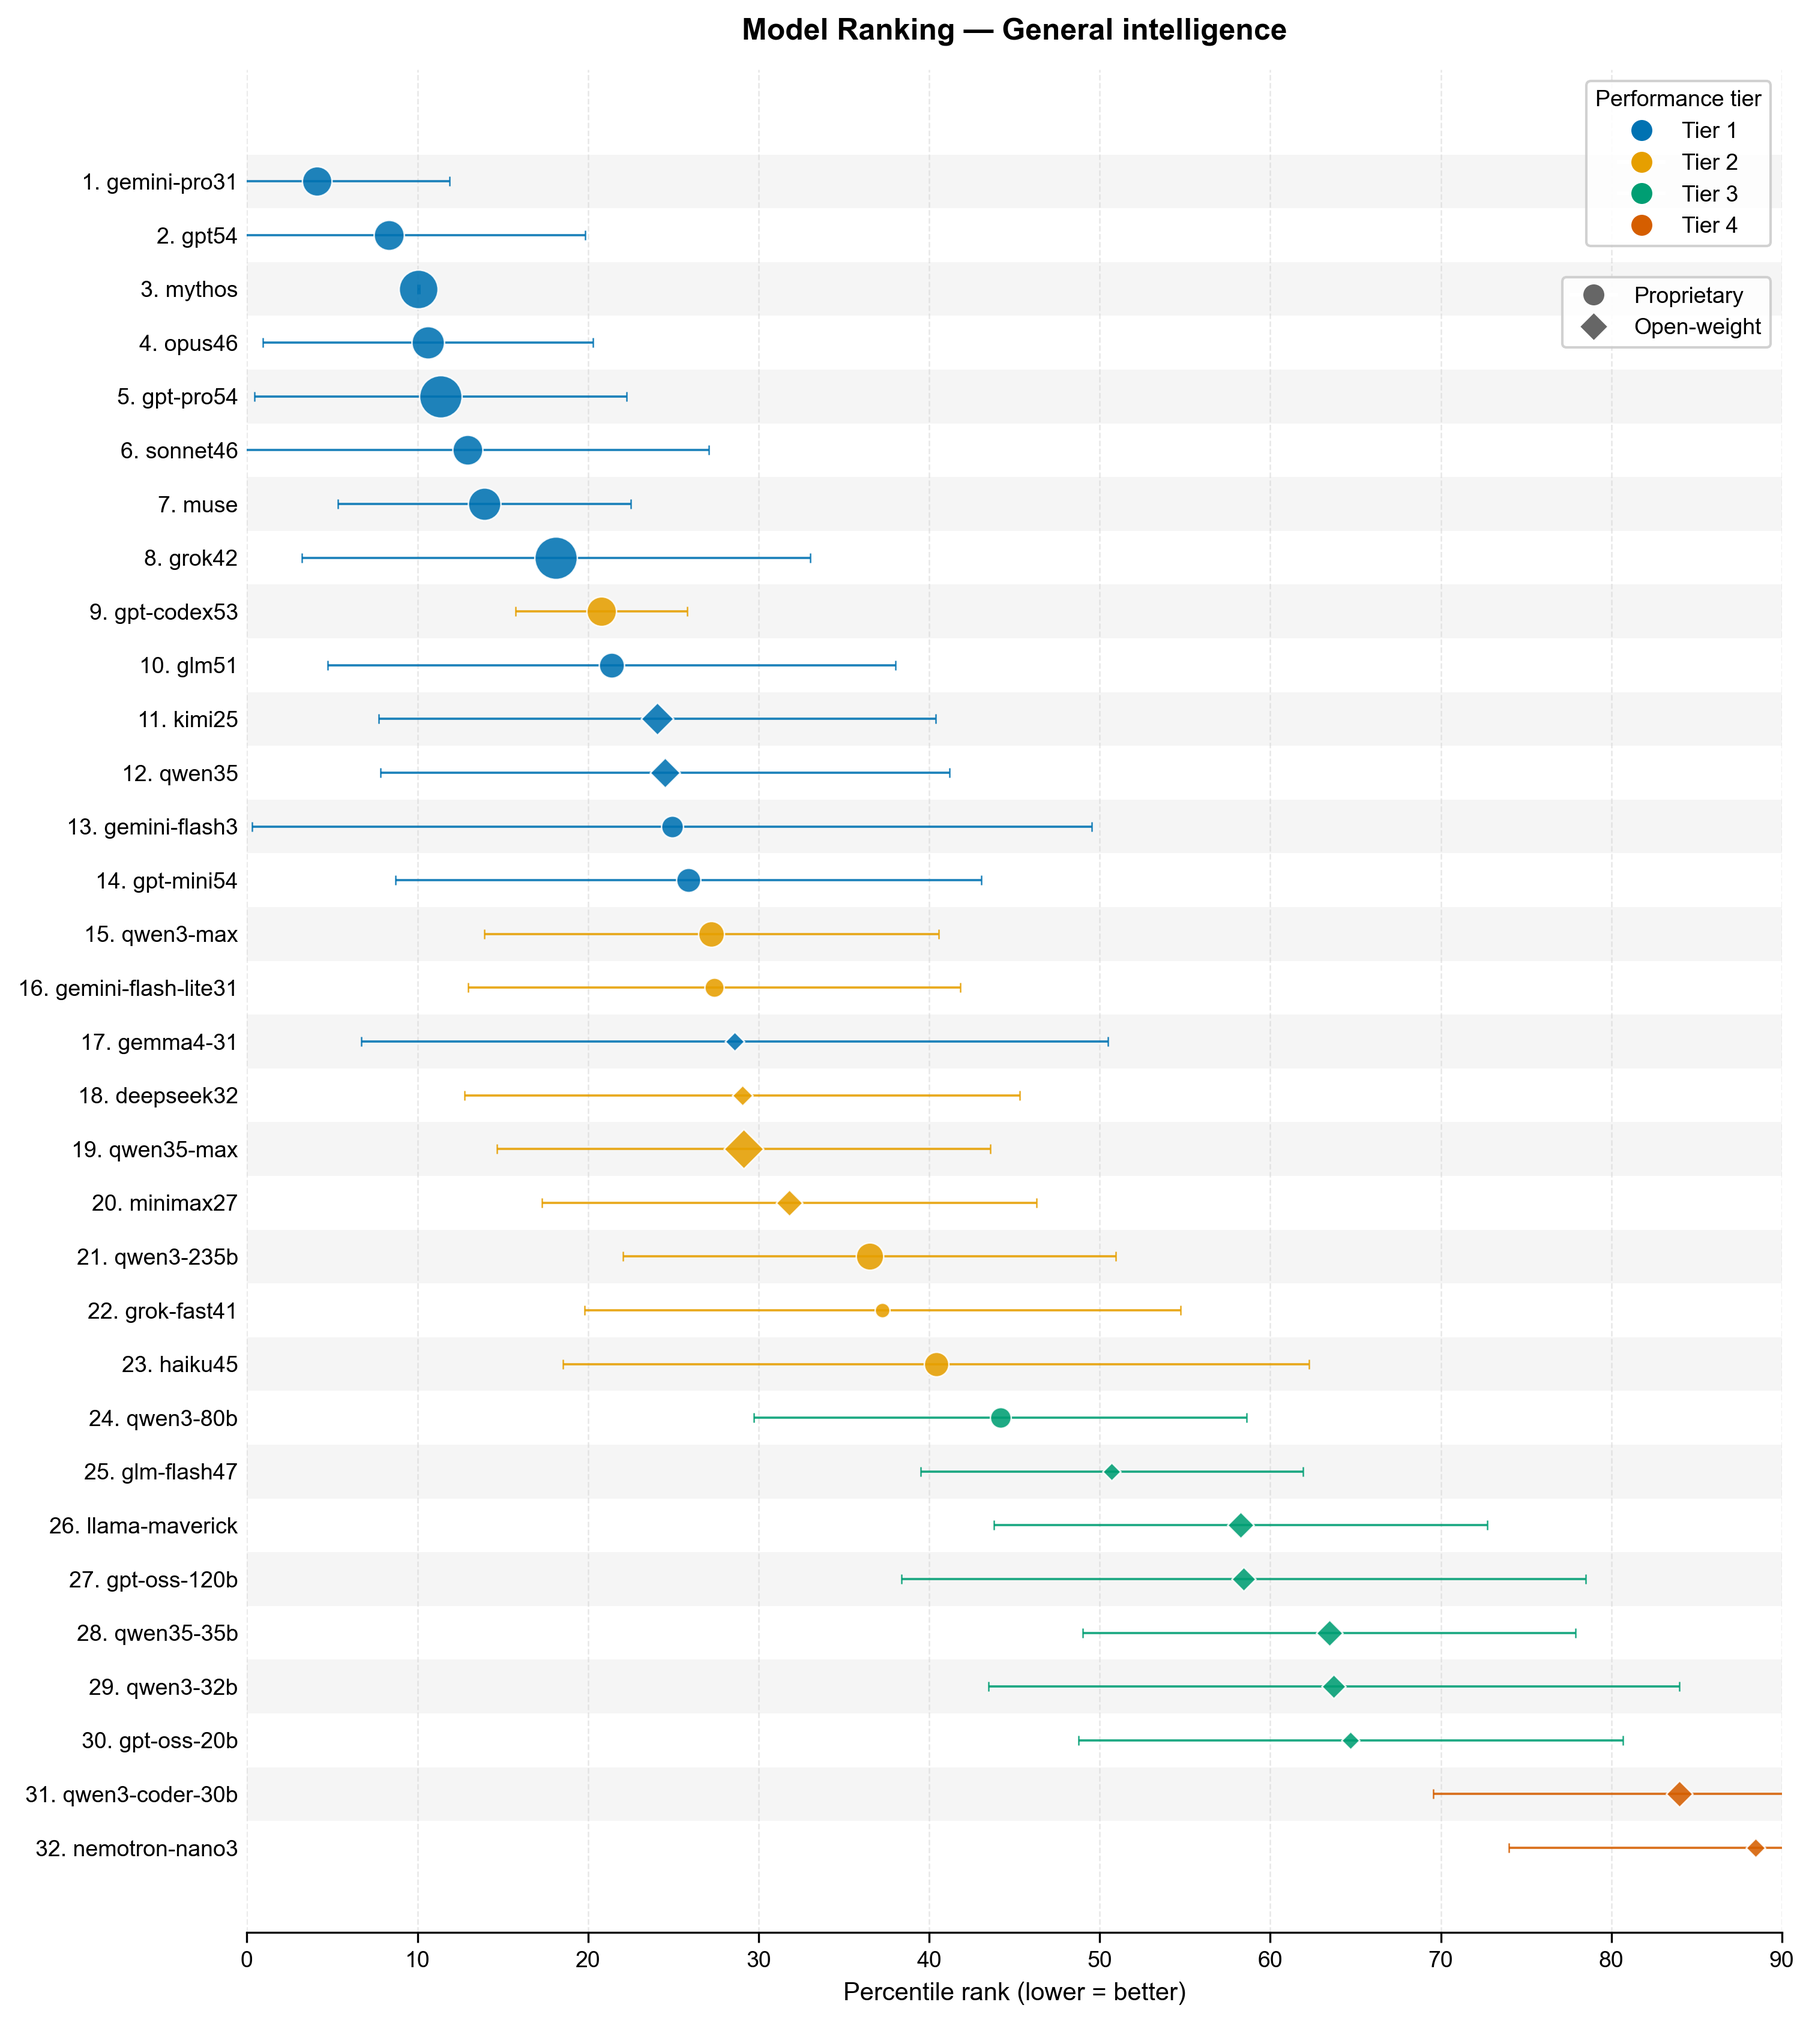
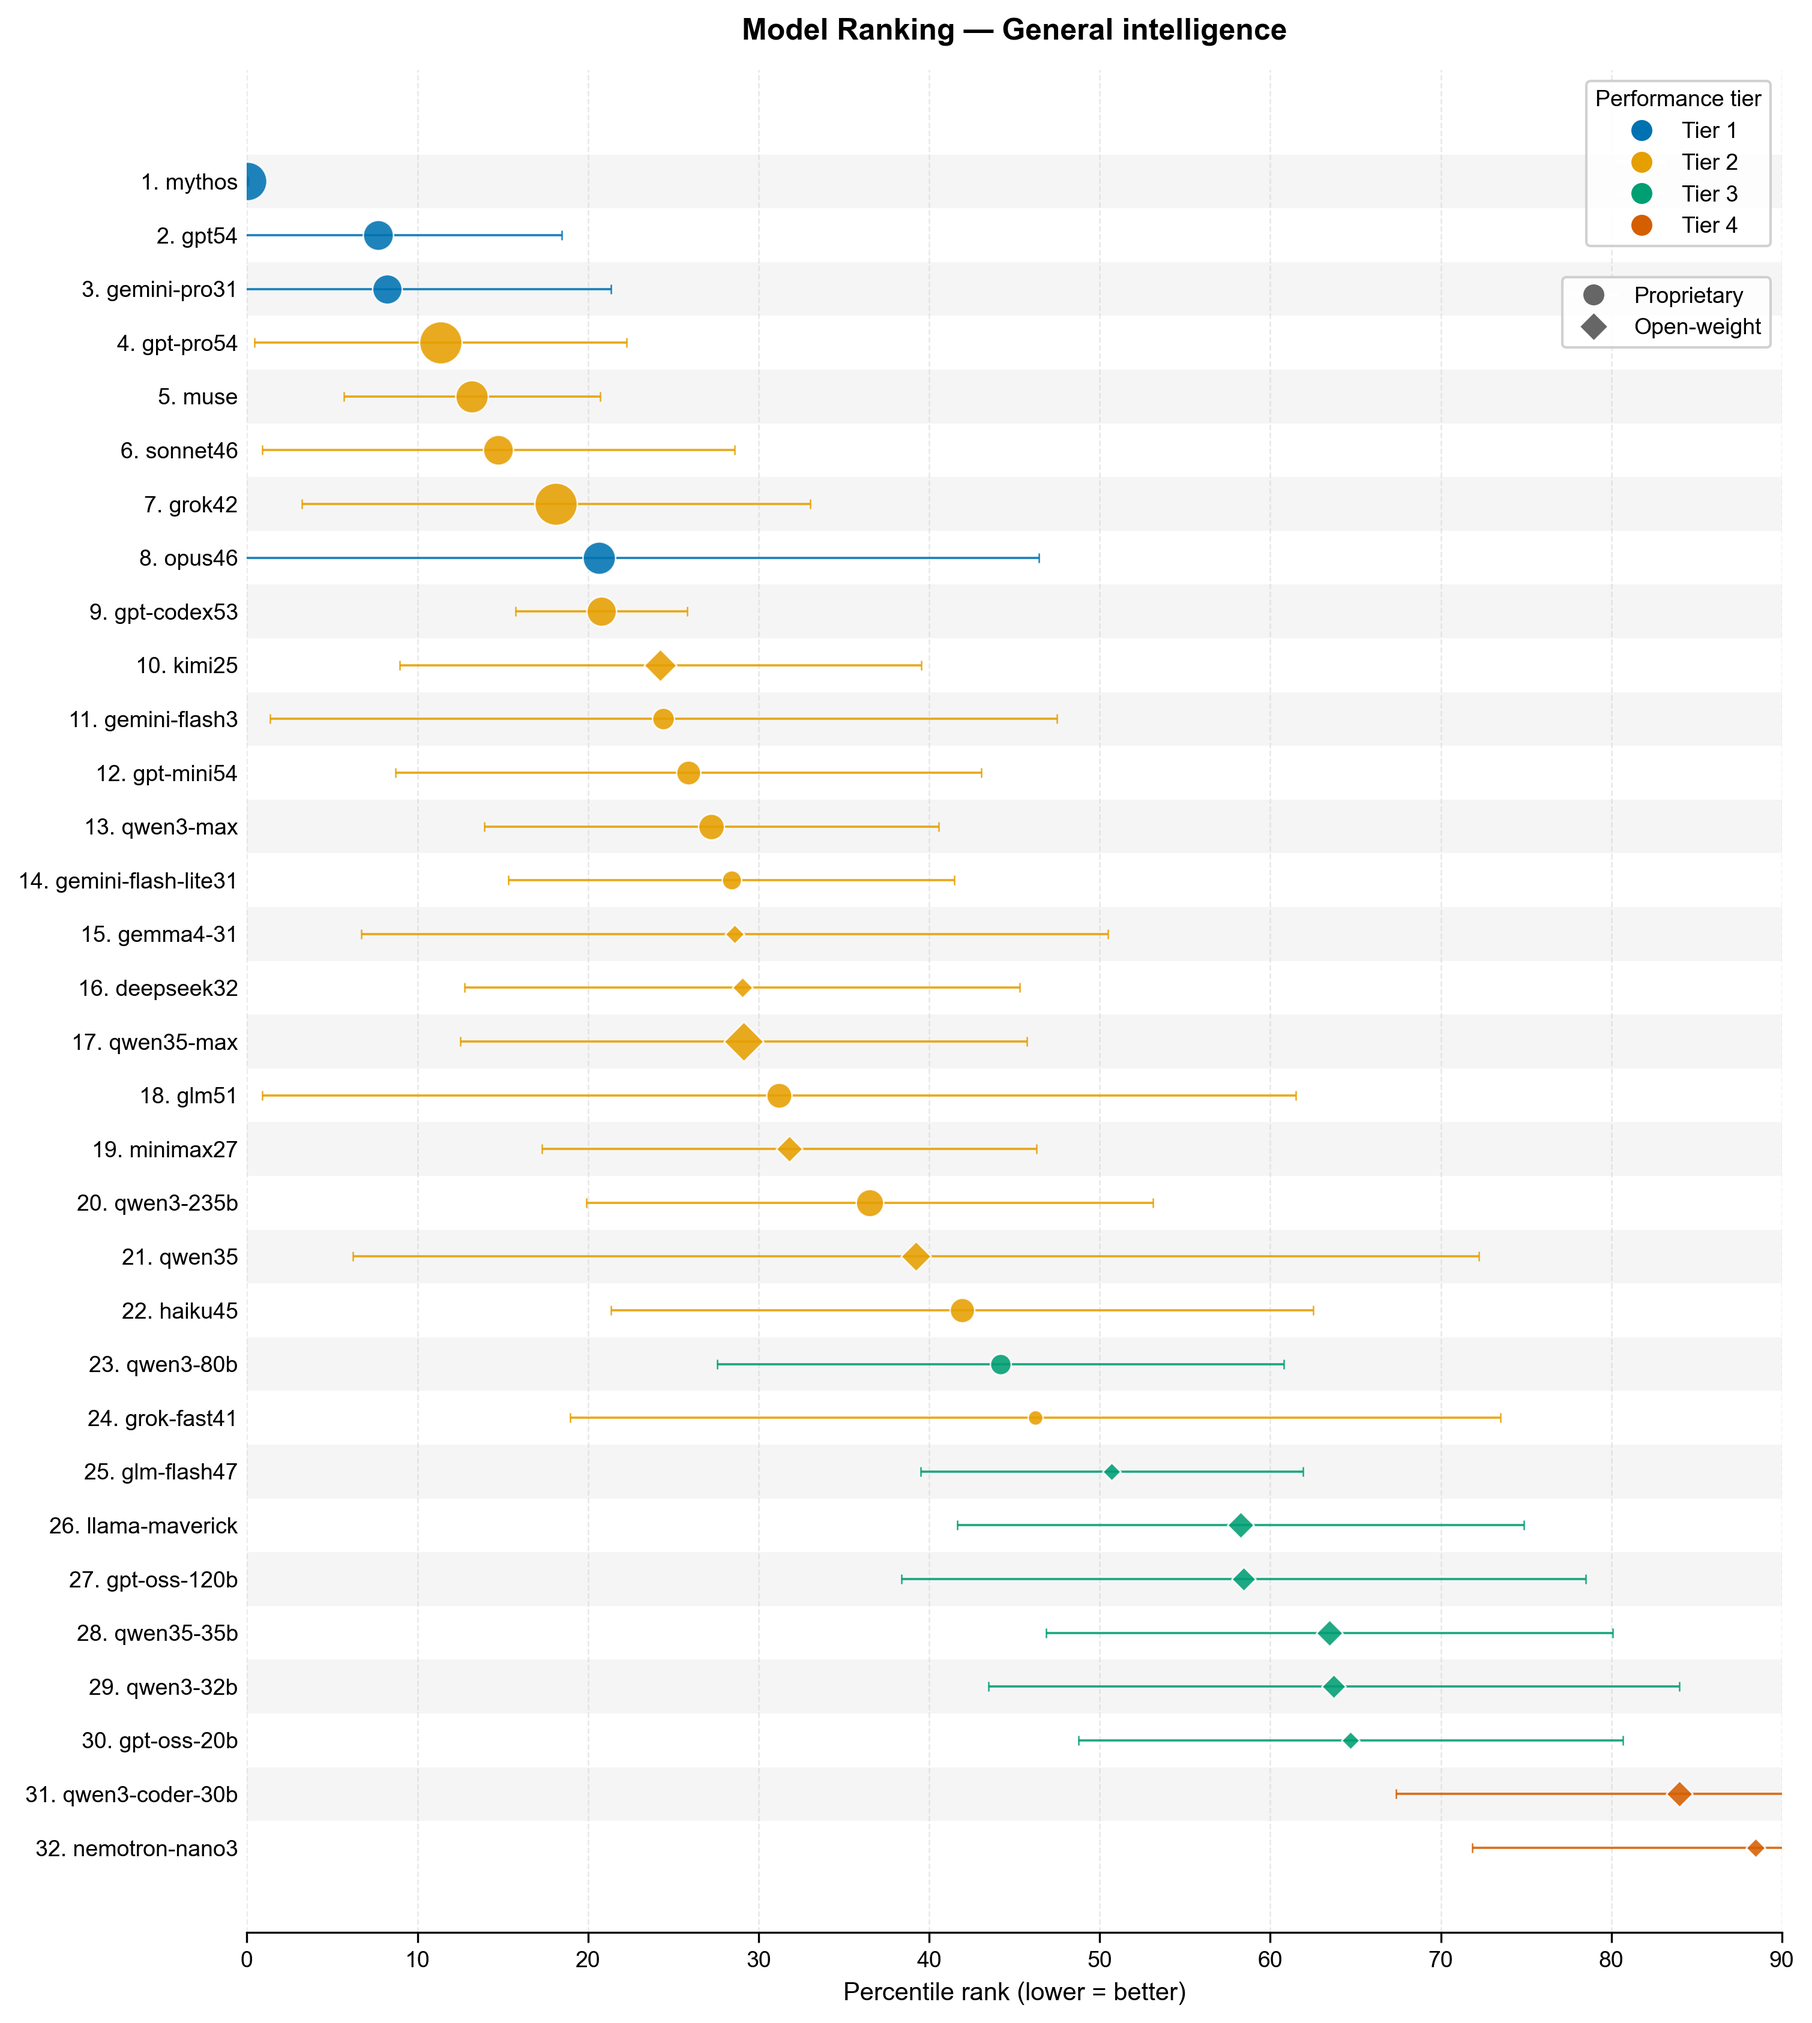
updated with mythos general reasoning

diff --git a/_pages/llm-ranking.md b/_pages/llm-ranking.md
@@ -33,38 +33,38 @@ The general reasoning ranking, aggregated across seven leaderboards, is dominate
 +-------------------------------------------------------------------------------------+
 | Rank  | Model                   | Avg Pctl  | Std Dev   | # Benchmarks  | Rel. Cost |
 +-------------------------------------------------------------------------------------+
-| 1     | gemini-pro31            | 0.041     | 0.078     | 7             | 1.000     |
-| 2     | gpt54                   | 0.083     | 0.115     | 6             | 1.124     |
-| 3     | mythos                  | 0.101     | 0.001     | 2             | 6.424     |
-| 4     | opus46                  | 0.106     | 0.097     | 7             | 1.820     |
-| 5     | gpt-pro54               | 0.114     | 0.109     | 3             | 13.490    |
-| 6     | sonnet46                | 0.129     | 0.142     | 6             | 1.092     |
-| 7     | muse                    | 0.139     | 0.086     | 3             | 1.820     |
-| 8     | grok42                  | 0.181     | 0.149     | 6             | 13.490    |
-| 9     | gpt-codex53             | 0.208     | 0.050     | 2             | 1.006     |
-| 10    | glm51                   | 0.214     | 0.166     | 7             | 0.415     |
-| 11    | kimi25                  | 0.241     | 0.163     | 7             | 0.257     |
-| 12    | qwen35                  | 0.245     | 0.167     | 4             | 0.184     |
-| 13    | gemini-flash3           | 0.249     | 0.246     | 7             | 0.214     |
-| 14    | gpt-mini54              | 0.259     | 0.172     | 4             | 0.338     |
-| 15    | qwen3-max               | 0.272     | 0.133     | 5             | 0.471     |
-| 16    | gemini-flash-lite31     | 0.274     | 0.144     | 4             | 0.126     |
-| 17    | gemma4-31               | 0.286     | 0.219     | 6             | 0.041     |
-| 18    | deepseek32              | 0.290     | 0.163     | 7             | 0.049     |
-| 19    | qwen35-max              | 0.291     | N/A       | 1             | 0.749     |
-| 20    | minimax27               | 0.318     | 0.145     | 4             | 0.107     |
-| 21    | qwen3-235b              | 0.365     | N/A       | 1             | 0.642     |
-| 22    | grok-fast41             | 0.373     | 0.175     | 6             | 0.051     |
-| 23    | haiku45                 | 0.404     | 0.219     | 6             | 0.364     |
-| 24    | qwen3-80b               | 0.442     | N/A       | 1             | 0.171     |
-| 25    | glm-flash47             | 0.507     | 0.112     | 2             | 0.036     |
-| 26    | llama-maverick          | 0.583     | N/A       | 1             | 0.118     |
-| 27    | gpt-oss-120b            | 0.584     | 0.201     | 6             | 0.086     |
-| 28    | qwen35-35b              | 0.635     | N/A       | 1             | 0.107     |
-| 29    | qwen3-32b               | 0.637     | 0.203     | 3             | 0.086     |
-| 30    | gpt-oss-20b             | 0.647     | 0.160     | 3             | 0.032     |
-| 31    | qwen3-coder-30b         | 0.840     | N/A       | 1             | 0.107     |
-| 32    | nemotron-nano3          | 0.885     | N/A       | 1             | 0.043     |
+| 1     | mythos                  | 0.000     | 0.001     | 4             | 1.000     |
+| 2     | gpt54                   | 0.077     | 0.108     | 7             | 0.175     |
+| 3     | gemini-pro31            | 0.082     | 0.131     | 8             | 0.156     |
+| 4     | gpt-pro54               | 0.114     | 0.109     | 3             | 2.100     |
+| 5     | muse                    | 0.132     | 0.075     | 4             | 0.283     |
+| 6     | sonnet46                | 0.147     | 0.138     | 7             | 0.170     |
+| 7     | grok42                  | 0.181     | 0.149     | 6             | 2.100     |
+| 8     | opus46                  | 0.207     | 0.258     | 9             | 0.283     |
+| 9     | gpt-codex53             | 0.208     | 0.050     | 2             | 0.157     |
+| 10    | kimi25                  | 0.242     | 0.153     | 8             | 0.040     |
+| 11    | gemini-flash3           | 0.244     | 0.231     | 8             | 0.033     |
+| 12    | gpt-mini54              | 0.259     | 0.172     | 4             | 0.053     |
+| 13    | qwen3-max               | 0.272     | 0.133     | 5             | 0.073     |
+| 14    | gemini-flash-lite31     | 0.284     | 0.131     | 5             | 0.020     |
+| 15    | gemma4-31               | 0.286     | 0.219     | 6             | 0.006     |
+| 16    | deepseek32              | 0.290     | 0.163     | 7             | 0.008     |
+| 17    | qwen35-max              | 0.291     | N/A       | 1             | 0.117     |
+| 18    | glm51                   | 0.312     | 0.303     | 8             | 0.065     |
+| 19    | minimax27               | 0.318     | 0.145     | 4             | 0.017     |
+| 20    | qwen3-235b              | 0.365     | N/A       | 1             | 0.100     |
+| 21    | qwen35                  | 0.392     | 0.330     | 5             | 0.029     |
+| 22    | haiku45                 | 0.419     | 0.206     | 7             | 0.057     |
+| 23    | qwen3-80b               | 0.442     | N/A       | 1             | 0.027     |
+| 24    | grok-fast41             | 0.462     | 0.273     | 7             | 0.008     |
+| 25    | glm-flash47             | 0.507     | 0.112     | 2             | 0.006     |
+| 26    | llama-maverick          | 0.583     | N/A       | 1             | 0.018     |
+| 27    | gpt-oss-120b            | 0.584     | 0.201     | 6             | 0.013     |
+| 28    | qwen35-35b              | 0.635     | N/A       | 1             | 0.017     |
+| 29    | qwen3-32b               | 0.637     | 0.203     | 3             | 0.013     |
+| 30    | gpt-oss-20b             | 0.647     | 0.160     | 3             | 0.005     |
+| 31    | qwen3-coder-30b         | 0.840     | N/A       | 1             | 0.017     |
+| 32    | nemotron-nano3          | 0.885     | N/A       | 1             | 0.007     |
 +-------------------------------------------------------------------------------------+
 ```
 
@@ -80,7 +80,7 @@ The general reasoning ranking, aggregated across seven leaderboards, is dominate
 
 ### Coding and agentic coding
 
-The coding ranking, drawn from nine benchmarks including demanding agentic evaluations, reveals a two-model tier-1 club at the top—and a wide, cost-diverse tier 2 below it.
+The coding ranking, drawn from nine benchmarks including demanding agentic evaluations, reveals a three-model tier-1 club at the top—and a wide, cost-diverse tier 2 below it.
 
 ```
 +-------------------------------------------------------------------------------------+
@@ -187,8 +187,8 @@ For consistent cost comparison, I normalize each model's Poe credit cost per 1,0
 
 - For coding, the tier-1 club is now just three models: Anthropic's unreleased *Mythos*, *GPT-5.4* and *Gemini 3.1 Pro*. If you need that peak performance today and cost is secondary, those are the top LLM models.
 - There is a large tier-2 coding population that includes Claude Opus 4.6, Sonnet 4.6, GLM 5.1, GPT-Codex 5.3, GPT Mini 5.4 and Minimax 2.7, among others. This cohort is statistically indistinguishable from each other and close to the top.
-- For general reasoning, all eight tier-1 models are proprietary. The best open-weights pick here is *GLM 5.1*, landing at rank 10.
-- Best value for general reasoning: *Kimi K2.5*, *Qwen 3.5*, *Gemini Flash 3* and lite version, and *Gemma 4 3.1* deliver tier-2-or-better performance at well below the cost of the top models.
+- For general reasoning, all eight tier-1 models are proprietary. The best open-weights pick here is *Kimi K2.5*, landing at rank 10.
+- Best value for general reasoning: *Kimi K2.5*, *Gemini Flash 3* and lite version, and *Gemma 4 3.1* deliver tier-2-or-better performance at well below the cost of the top models.
 - Best value for coding and agentic tasks (e.g. [opencode](https://opencode.ai)): *Grok Fast 4.1*, *Gemma 4 3.1*, *MiniMax M2.7*, *Qwen 3.5*, *Kimi K2.5*, and *Gemini Flash 3* all sit in the upper-left of the cost-performance plot.
 - For the tightest budgets, *DeepSeek V3.2*, *Grok Fast 4.1* and *Gemma 4* remain the standout value picks.
 
